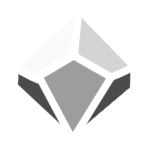
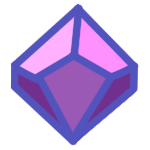
Changes the all the dice images

diff --git a/src/components/Merchant/index.js b/src/components/Merchant/index.js
@@ -1,13 +1,14 @@
 import styled from "styled-components";
 import meowlin from "./images/merchant.png";
 import speechBubble from "./images/speechRectangle.png";
+import theme from "../../styles/theme";
 
 const Merchant = ({ fatedOutcome, currentQuote }) => {
   return (
     <div>
       <img src={meowlin} alt="meowlin" width="300px" />
       <SpeechStyle>
-        <img src={speechBubble} alt="speechBubble" width="280px" />
+        <img src={speechBubble} alt="speechBubble" width="300px" />
         <p>
           {fatedOutcome !== undefined
             ? `You rolled ${fatedOutcome}`
@@ -21,6 +22,7 @@ const Merchant = ({ fatedOutcome, currentQuote }) => {
 export default Merchant;
 
 const SpeechStyle = styled.div`
+  background-color: ${theme.quaternary};
   display: inline-block;
   position: relative;
   img {
